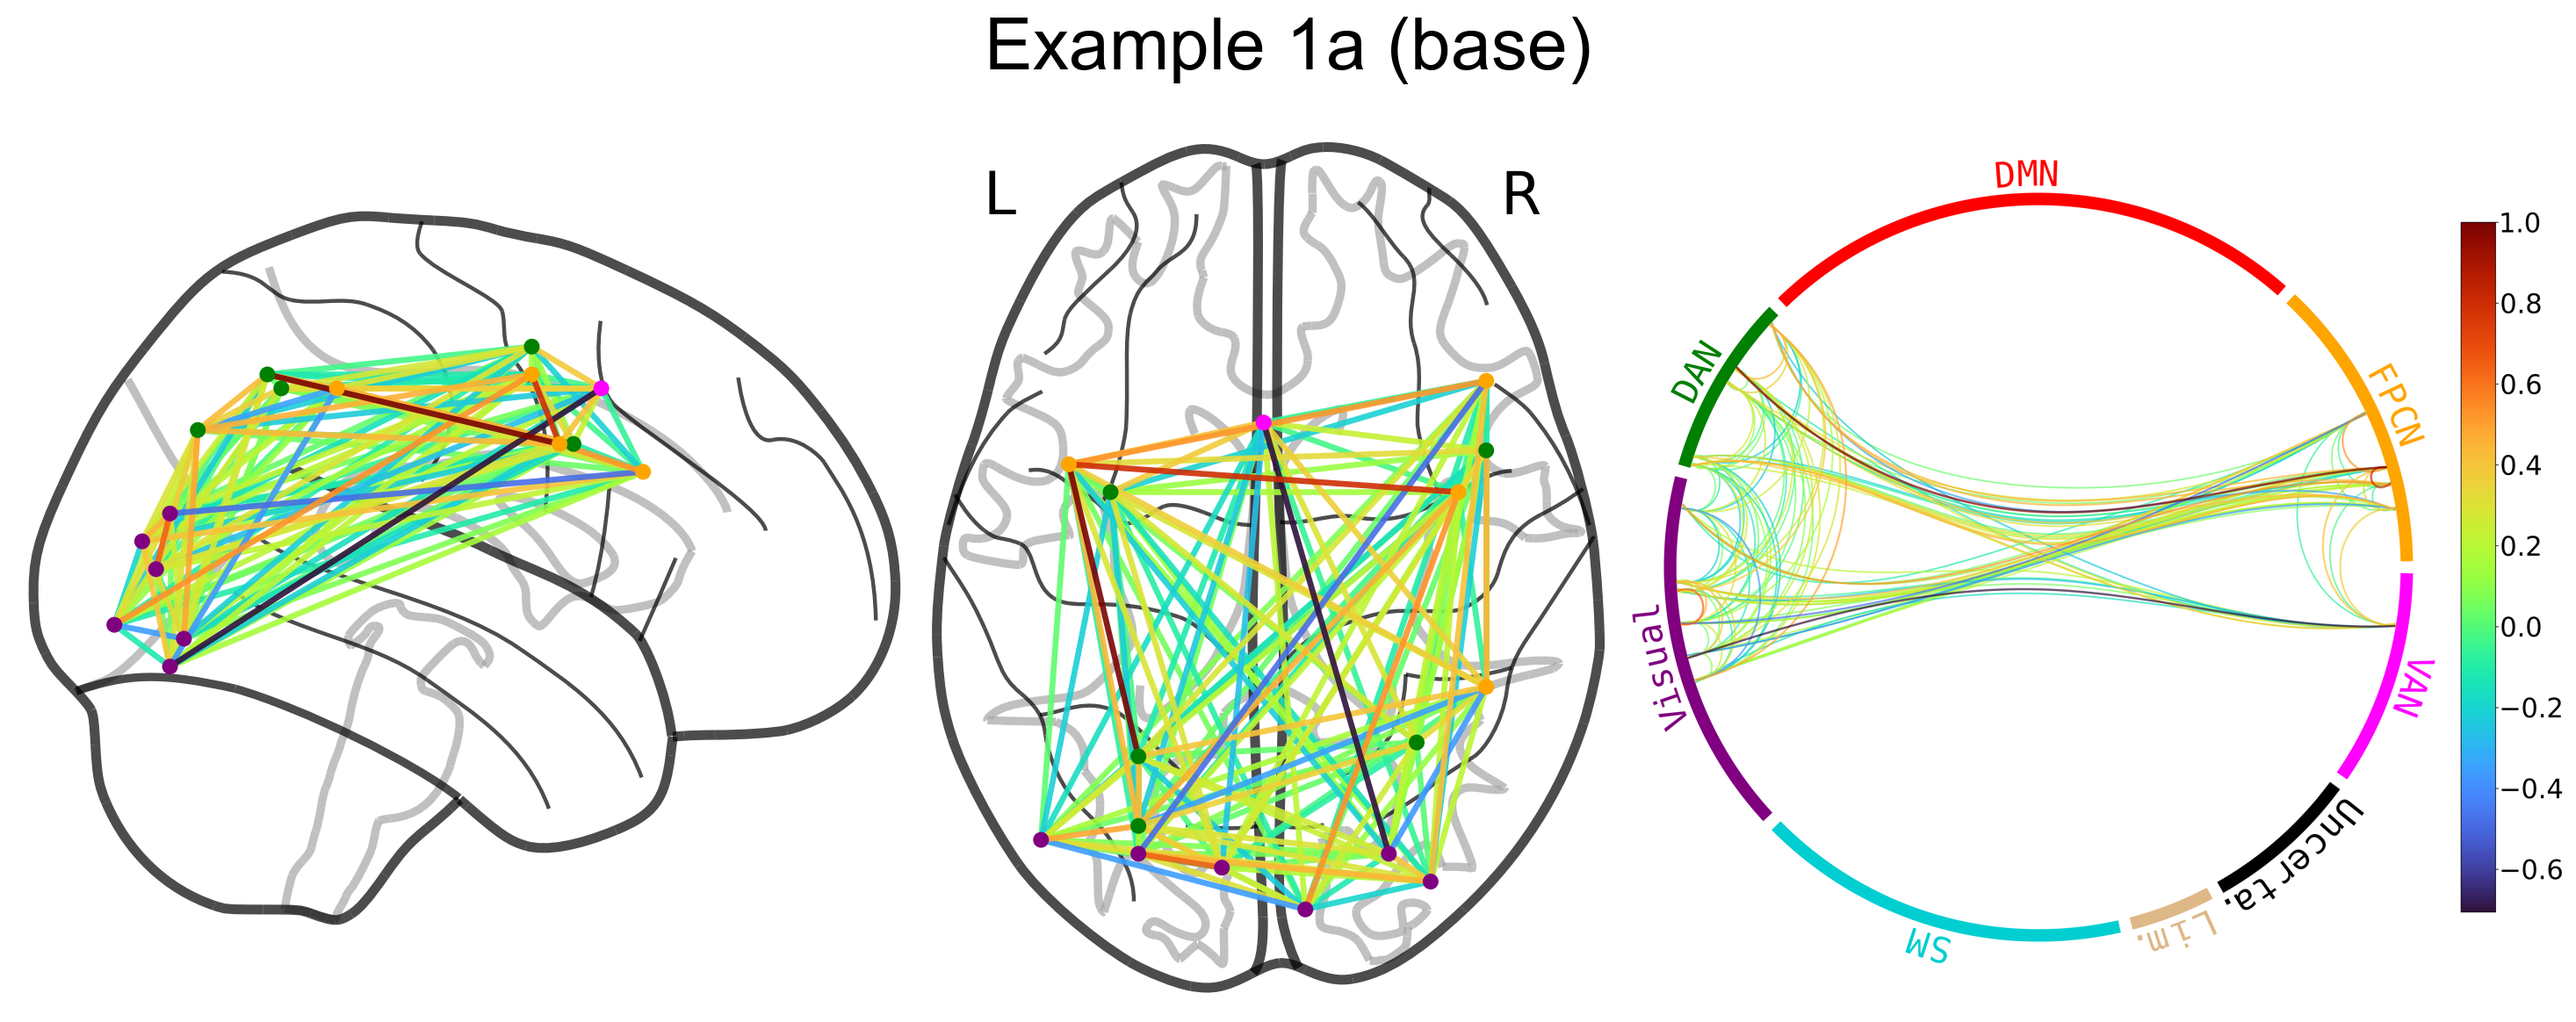
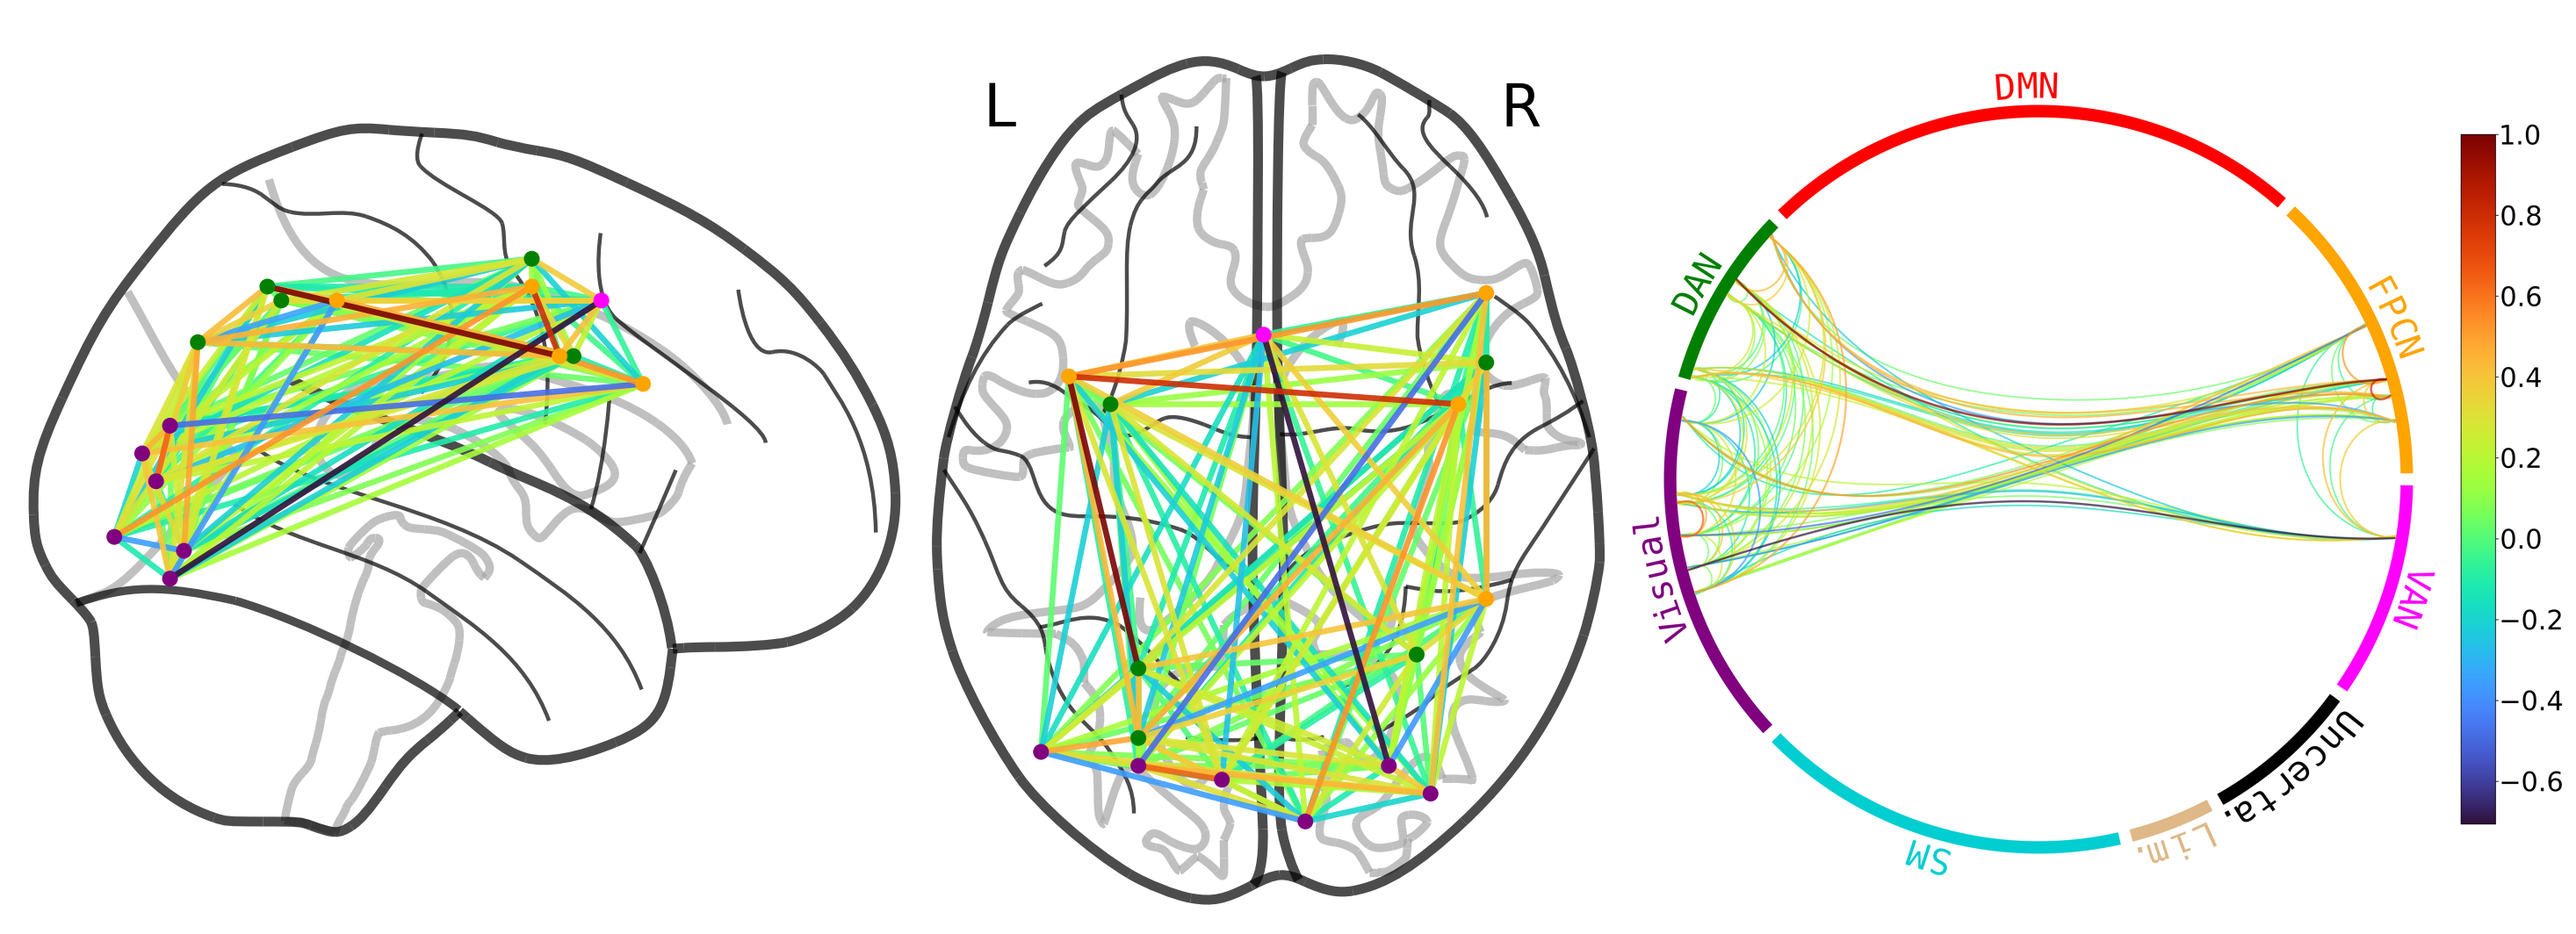
minor updates. to chord.plot_chord(...), added the norm_thickness argument. it applies to plot_count = True, and norm_thickness=True, it weighs edge thickness based on the number of edges between a pair of networks (so thickness represents edges beyond what would be expected given the size of the ne
to combine.combine_images(...), added only1glass argument. it allows plotting combined images with only the sagital view. the argument has also been added to combine.plot_and_combine(...). this is useful if you just want a smaller plot and don't need the axial view.

the changes default to false so it allows backward compatibility.

going to push package version 0.1.1

diff --git a/nichord/chord.py b/nichord/chord.py
@@ -59,6 +59,7 @@ def plot_chord(idx_to_label: dict,
                vmin: Union[None, int, float] = None,
                vmax: Union[None, int, float] = None,
                plot_count: bool = False,
+               norm_thickness: bool = False,
                dpi: int = 400) -> None:
     """
     Plots the chord diagram and either saves a file if fp_chord is not None or
@@ -138,11 +139,12 @@ def plot_chord(idx_to_label: dict,
 
 
     vmin, vmax = plot_arcs(edges, idx_to_label, network_low_high, network_counts,
-                           edge_weights,
-              network_centers, network_starts_ends, radius, cmap, coords,
-              linewidths=linewidths,
-              seven_point_arc=arc_setting, colors=colors, alphas=alphas,
-              vmin=vmin, vmax=vmax, plot_count=plot_count)
+                           edge_weights, network_centers, network_starts_ends,
+                           radius, cmap, coords, linewidths=linewidths,
+                           seven_point_arc=arc_setting, colors=colors,
+                           alphas=alphas, vmin=vmin, vmax=vmax,
+                           plot_count=plot_count,
+                           norm_thickness=norm_thickness)
 
     if do_ROI_circles:
         if do_ROI_circles_specific:
@@ -392,7 +394,7 @@ def plot_arcs(edges: list, idx_to_label: dict, network_low_high: dict,
               vmax: Union[float, int] = 1,
               plot_count: bool = True,
               plot_abs_sum: bool = False,
-              normalize_thickness: bool = False,
+              norm_thickness: bool = False,
               max_linewidth: Union[float, int] = 28,
               sub_min_thickness: bool = False
               ) -> (float, float):
@@ -449,7 +451,7 @@ def plot_arcs(edges: list, idx_to_label: dict, network_low_high: dict,
             network2thickness = {network: len(l_w)
                                  for network, l_w
                                  in network_edges.items()}
-        if normalize_thickness:
+        if norm_thickness:
             network2thickness_std = {}
             min_std_thickness = 1e10
             max_std_thickness = 0

diff --git a/nichord/combine.py b/nichord/combine.py
@@ -11,6 +11,7 @@ from nichord import plot_chord, plot_glassbrain
 def combine_imgs(fp_glass: str, fp_chord: str, fp_combined: str,
                  chord_mult: Union[float, int] = 1.05,
                  title: Union[None, str] = None,
+                 only1glass: bool = False
                  ) -> None:
     """
     Combine the glass brain connectome and chord diagram into a single picture.
@@ -34,9 +35,11 @@ def combine_imgs(fp_glass: str, fp_chord: str, fp_combined: str,
     w_chord_new = int(h_glass / h_chord * w_chord * chord_mult)
     h_chord_new = int(h_glass * chord_mult)
     image_chord = image_chord.resize((w_chord_new, h_chord_new))
-    image_glass = image_glass.crop((int(w_glass * .303), 0, w_glass,
-                                    h_glass))  # drop the rightmost (axial)
-                                        # brain. The chord diagram will go here
+    if only1glass: # drop coronal & axial
+        image_glass = image_glass.crop((int(w_glass * .303), 0,
+                                        int(w_glass * .70), h_glass))
+    else: # drop only axial
+        image_glass = image_glass.crop((int(w_glass * .303), 0, w_glass, h_glass))
 
     new_im = Image.new('RGB', (image_glass.size[0] + w_chord_new, int(
         (h_chord_new - (chord_mult - 1) / 2 * h_chord_new))),
@@ -72,7 +75,8 @@ def plot_and_combine(dir_out: str,
                      network_colors: Union[dict, None] = None,
                      chord_kwargs: Union[None, dict] = None,
                      glass_kwargs: Union[None, dict] = None,
-                     title: Union[None, str] = None
+                     title: Union[None, str] = None,
+                     only1glass: bool = False
                      ) -> None:
     name, file_ext = os.path.splitext(fn)
     if file_ext == '':
@@ -110,4 +114,5 @@ def plot_and_combine(dir_out: str,
     plot_glassbrain(idx_to_label, edges, edge_weights, fp_glass,
                     coords, **glass_kwargs)
 
-    combine_imgs(fp_glass, fp_chord, fp_combined, title=title)
+    combine_imgs(fp_glass, fp_chord, fp_combined, title=title,
+                 only1glass=only1glass)

diff --git a/example/example.py b/example/example.py
@@ -182,3 +182,10 @@ if __name__ == '__main__':
                      network_order=network_order, network_colors=network_colors,
                      chord_kwargs=chord_kwargs, glass_kwargs=glass_kwargs,
                      title='Example 2')
+
+    fn = r'ex2_1glass.png'
+    plot_and_combine(dir_out, fn, idx_to_label, edges,
+                     edge_weights=edge_weights, coords=power_coords,
+                     network_order=network_order, network_colors=network_colors,
+                     chord_kwargs=chord_kwargs, glass_kwargs=glass_kwargs,
+                     title='Example 2', only1glass=True)

diff --git a/setup.py b/setup.py
@@ -20,7 +20,7 @@ setup(
     description="Creates chord diagrams for connectivity/graph data",
     long_description=desc,
     long_description_content_type="text/markdown",
-    version="v0.1.0",
+    version="v0.1.1",
     packages=["nichord"],
     python_requires=">=3.5",
     url="https://github.com/paulcbogdan/NiChord",
